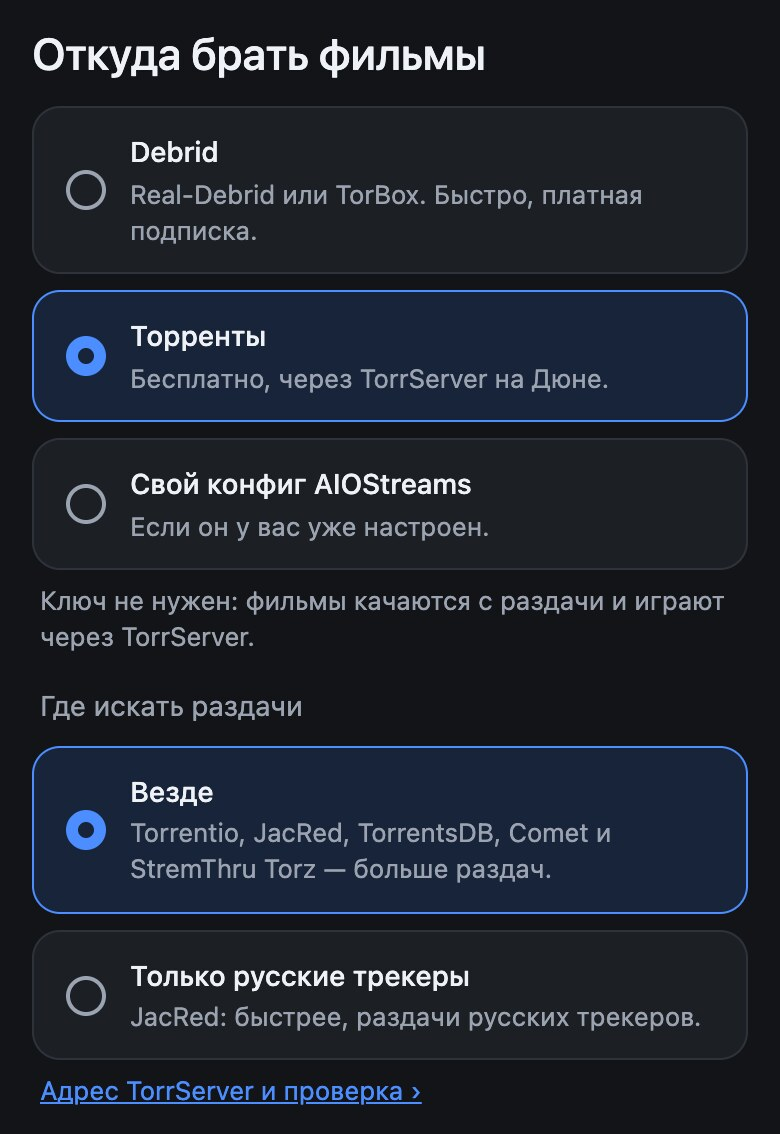
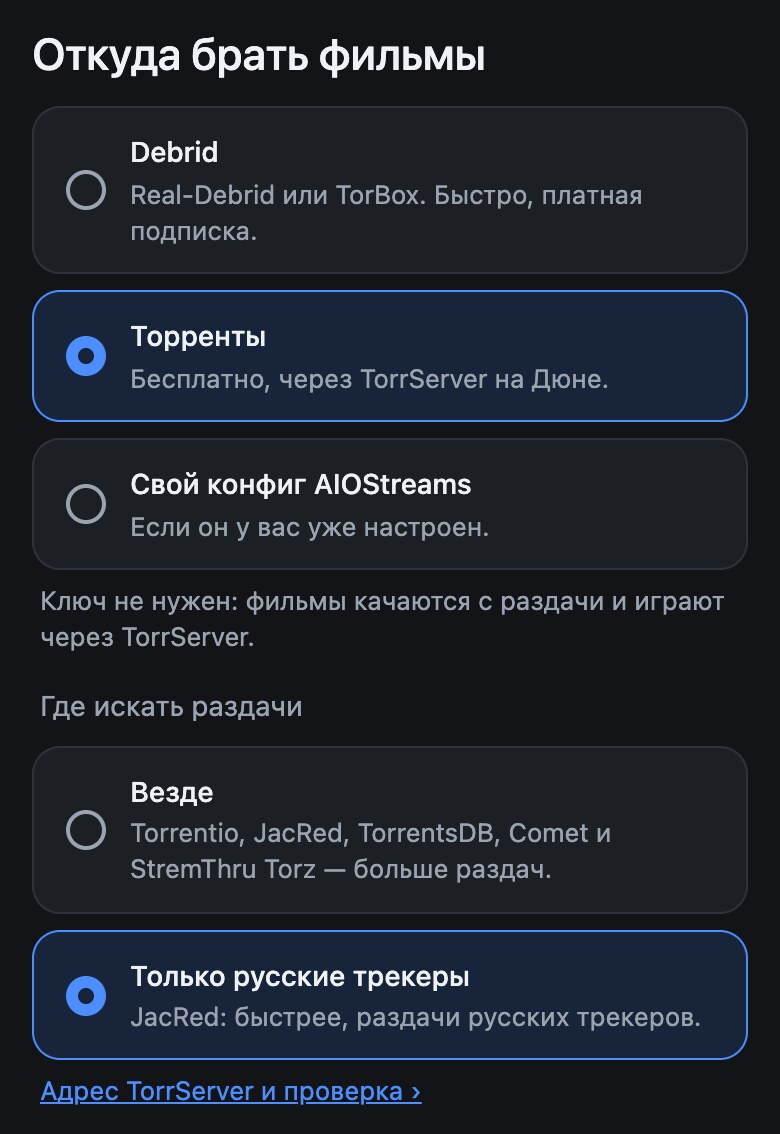
Гайд v2 (A2): Торренты — по умолчанию «Только русские трекеры»

diff --git a/docs/torrserver.md b/docs/torrserver.md
@@ -8,13 +8,13 @@
 
    <img src="../screenshots/setup-dune.jpg" alt="Экран настроек Melange на Дюне, фокус на «Быстрая настройка: торренты»" width="100%">
 
-2. С телефона ([Страница настроек с телефона](phone-page.md)): откройте «Откуда брать фильмы» и выберите «Торренты». В «Где искать раздачи» оставьте «Везде»: с ним раздач больше. Ключи Debrid, если вы их вводили, сохранятся, и к Debrid можно вернуться.
+2. С телефона ([Страница настроек с телефона](phone-page.md)): откройте «Откуда брать фильмы» и выберите «Торренты». В «Где искать раздачи» оставьте «Только русские трекеры» (по умолчанию). Если раздач мало, выберите «Везде». Ключи Debrid, если вы их вводили, сохранятся, и к Debrid можно вернуться.
 
-   <img src="../screenshots/torrserver-p2p.jpg" alt="«Откуда брать фильмы»: выбрано «Торренты», ниже «Где искать раздачи» с выбранным «Везде» и ссылка «Адрес TorrServer и проверка ›»" width="300">
+   <img src="../screenshots/torrserver-p2p.jpg" alt="«Откуда брать фильмы»: выбрано «Торренты», ниже «Где искать раздачи» с выбранным «Только русские трекеры» и ссылка «Адрес TorrServer и проверка ›»" width="300">
 
 3. Нажмите «Адрес TorrServer и проверка ›». Пустое поле значит, что Melange берёт приложение TorrServe на этой Дюне. Свой TorrServer впишите как `http://хост:порт`. Нажмите «Проверить»: должна появиться зелёная строка «TorrServer … отвечает».
 
-   <img src="../screenshots/torrserver-check.jpg" alt="Экран «TorrServer»: поле «Адрес TorrServer» пустое, под ним зелёная строка «TorrServer MatriX.136 отвечает»" width="300">
+   <img src="../screenshots/torrserver-check.jpg" alt="Экран «TorrServer»: поле «Адрес TorrServer» пустое, под ним зелёная строка «TorrServer MatriX.145 отвечает»" width="300">
 
 4. В «Что делать с раздачей» оставьте «Играть» и нажмите «Сохранить». Появится «Сохранено. Дюна подхватит настройки сама.»
 
@@ -28,6 +28,6 @@
 
 - После быстрой настройки Дюна пишет «TorrServer не отвечает» — установите и запустите TorrServe ([Быстрый старт](start.md)).
 - «Проверить» пишет красным — см. [Решение проблем](troubleshooting.md).
-- Раздач мало — выберите другой [JacRed](jacred.md).
+- Раздач мало — выберите другой [JacRed](jacred.md) или выберите «Везде» в «Где искать раздачи».
 
 Дальше: [JacRed](jacred.md) · [Оглавление](README.md)
